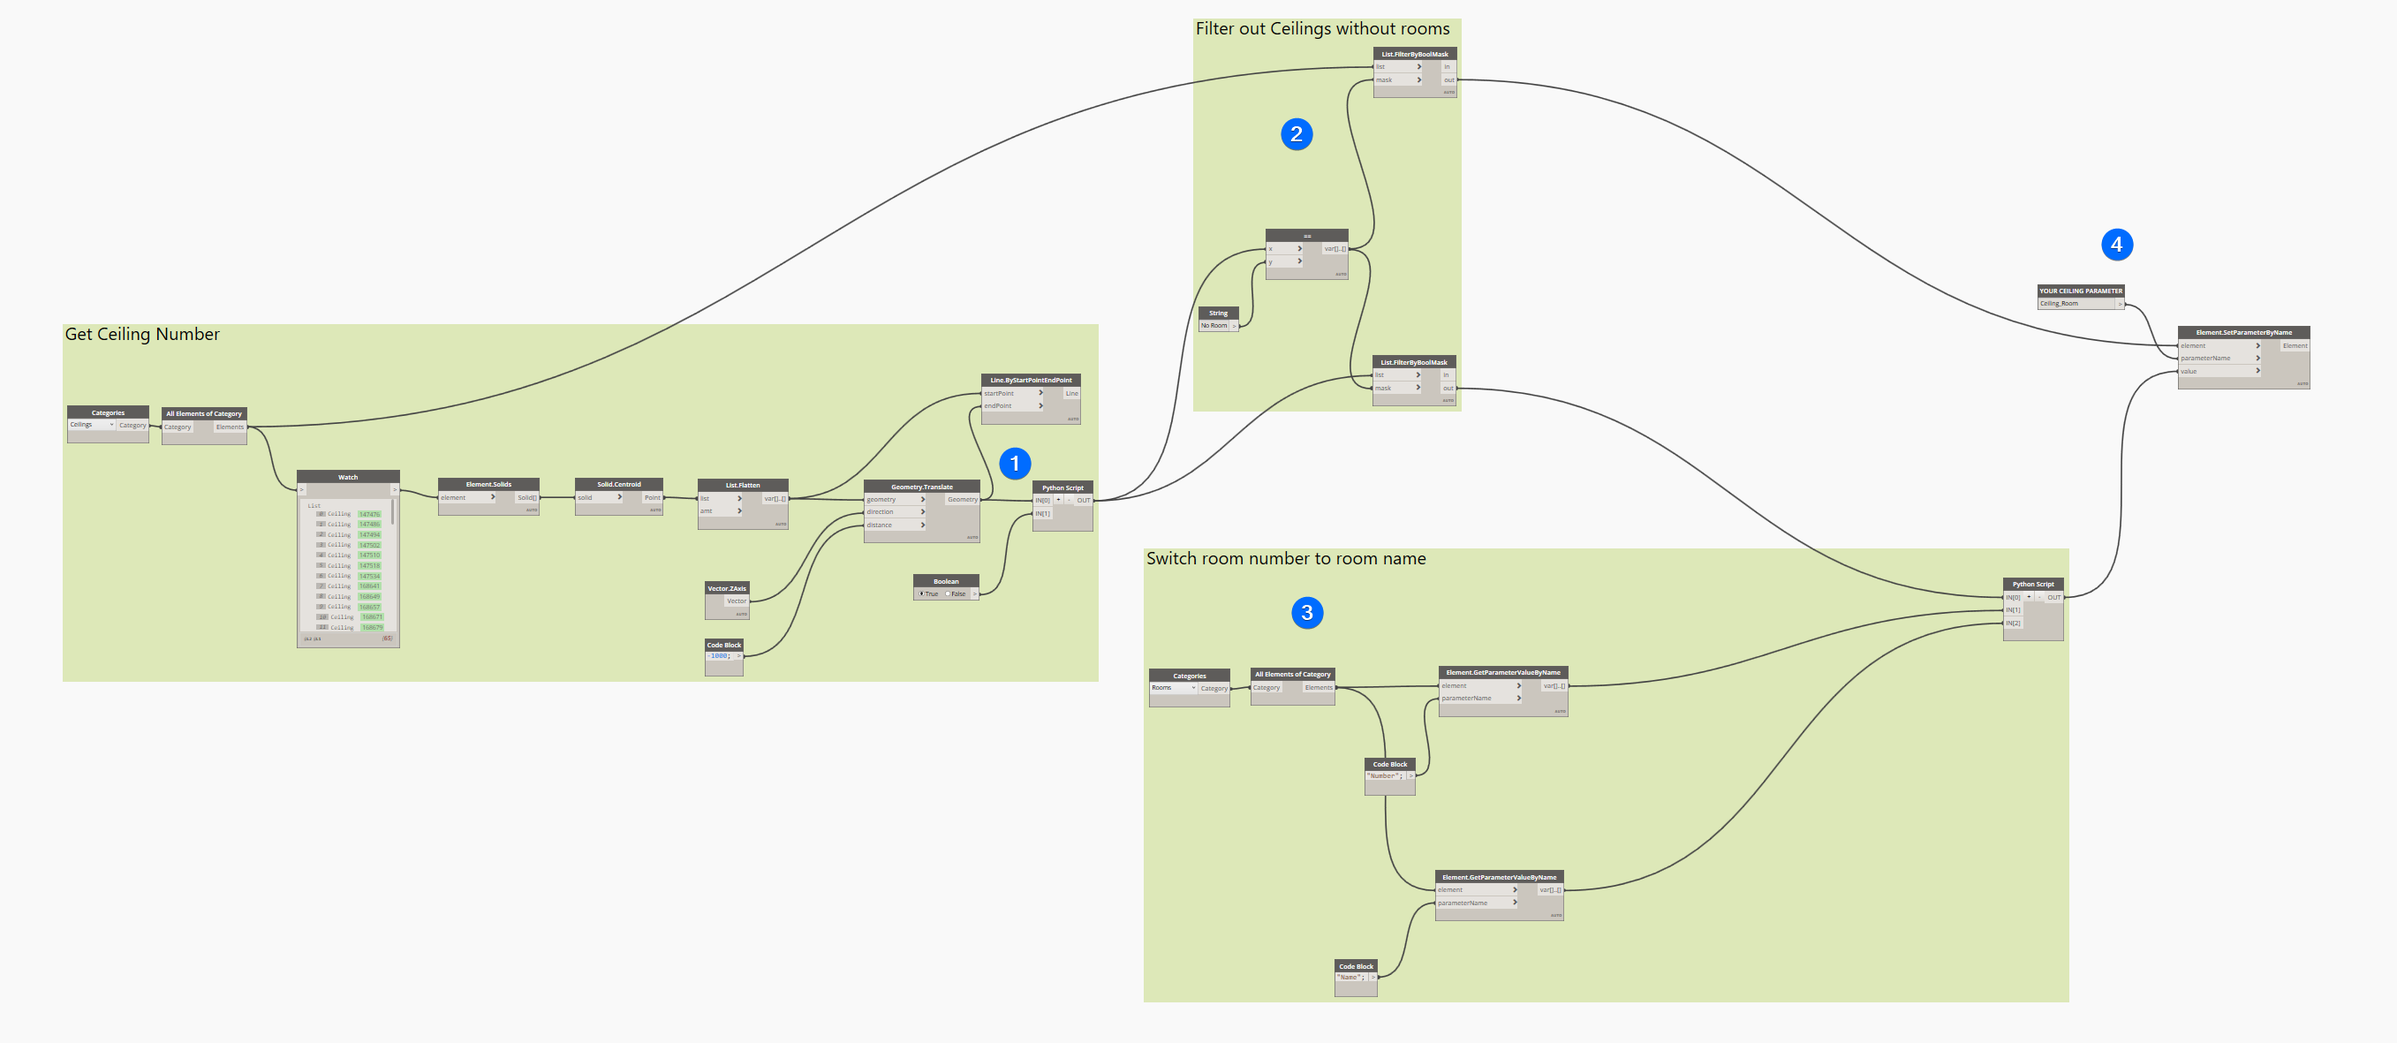
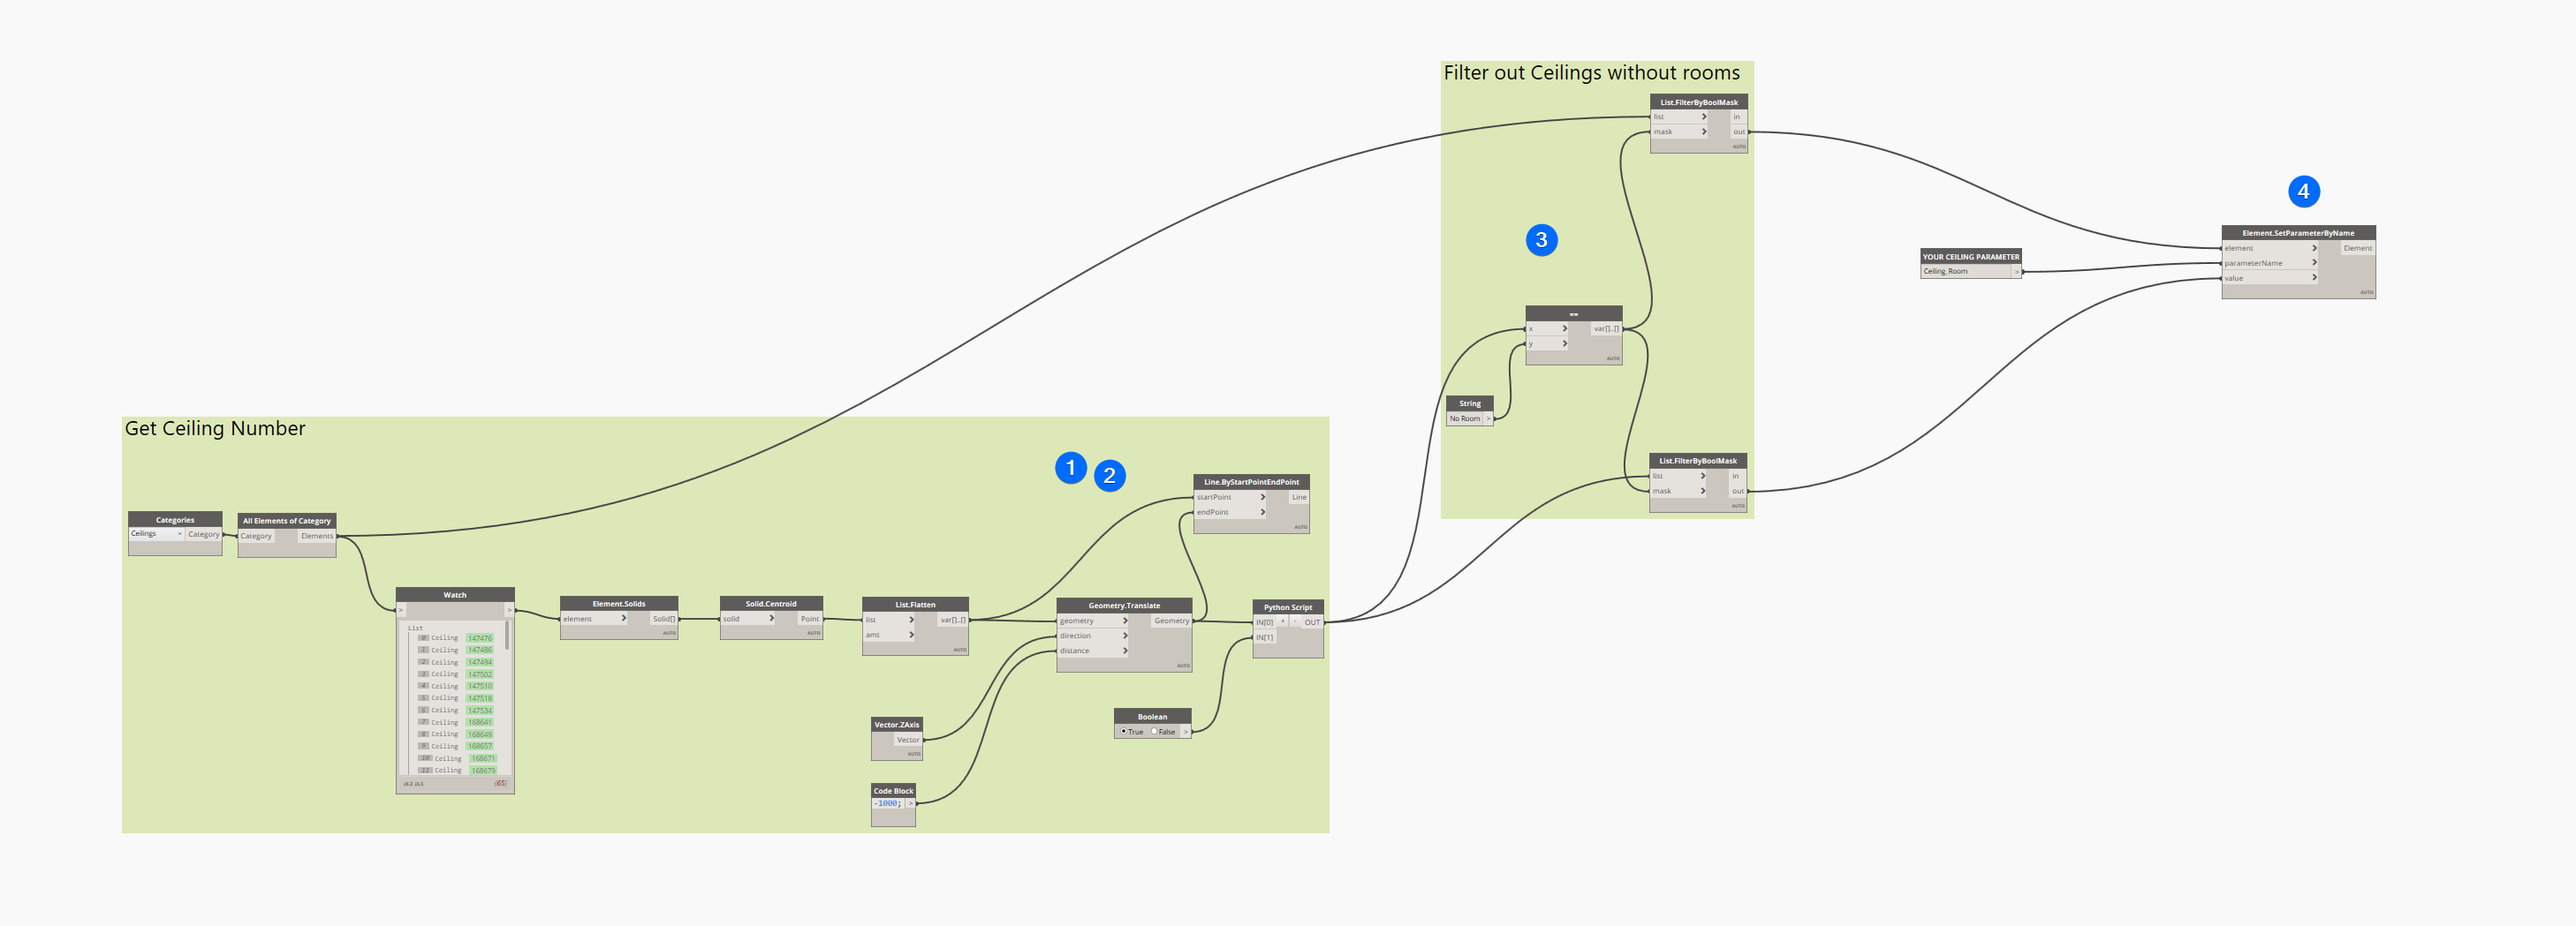
change in dynamoscrip1

diff --git a/_posts/2022-06-18-DynamoScript-AssignRoomToCeiling.md b/_posts/2022-06-18-DynamoScript-AssignRoomToCeiling.md
@@ -34,60 +34,29 @@ Below is the solution to this problem (google: try and except in python). As you
 
 ```python
 if toggle == True:
-    for point in points:
-        try:
-            room = doc.GetRoomAtPoint(point.ToXyz())
-            lst.append(room.Number)
-        except:
-            lst.append("No Room")
+	for point in points:
+		try:
+			room = doc.GetRoomAtPoint(point.ToXyz())
+			lst.append(room.LookupParameter("Name").AsString())
+		except:
+			lst.append("No Room")
 
-    OUT = lst
-    
-else:
-    pass
-    
-    OUT = "Set toogle to True"
-
+	OUT = lst
 ```
   
   
-### Filter out ceilings without rooms (2)
+### Filter out ceilings without rooms (3)
   
   
 I decided to filter out the ceilings to which script is unable to assign proper room number. I didn’t want it to later overwrite ceilings which were manually corrected.
-
-![Filtering out ceilings without rooms](/images/Dynamo/DS1/20220618_schemat_2.png)  
   
   
 ### Assign Room Name instead of Room Number (3)
-  
-  
-![NumbersToNames](/images/Dynamo/DS1/20220618_schemat_3.png)
 
 That’s probably the biggest change requested by many in the comments. At the beginning I thought it should be quick change but apparently Iron Python has some problems with using room names.
 
-So, I ended up extending dynamo script and doing some python magic
-
-```python
-L1 = IN[0]
-L2 = IN[1]
-L3 = IN[2]
-
-L4=[]
-
-for element in L1:
-    for RoomNumber in L2:
-        if     element == RoomNumber:
-            ind = L2.index(RoomNumber)
-            L4.append(L3[ind])
-
-OUT = L4
-```
-  
-Probably you can do it smarter but I think it is fairly good trick: 
-
-For each element (in list of numbers of rooms with ceilings above) it is looking for its index/position in list of rooms and it's assigning the name based on its index from the list of names.   
-  
+You can access it by using .LookupParameter() and this is how I did it in the end. Of course you can also use dynamo to swich numbers into names - that was my first idea after having problems with "Room name".
+ 
   
 ### Parameter Name (4)
   
